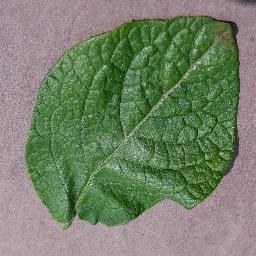
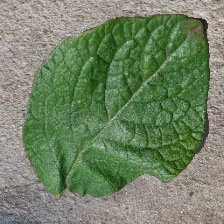
Update all

Changed region(s): [[0.0, 0.0, 1.0, 1.0]]

diff --git a/main.py b/main.py
@@ -45,7 +45,9 @@ class MainWindow:
                            self.uic.prob_late,
                            self.uic.prob_healthy]
         
-        self.img_captured = 0 # image to predict
+        self.img_captured = 0 # image to predict 
+        self.origin_img = 0 # origin image
+
         self.disease = {'name': 0, 'prob': 0}
         self.time = time.time()
         # create a timer
@@ -60,23 +62,32 @@ class MainWindow:
             self.timer.timeout.connect(self.viewCam)
         else:
             self.timer.timeout.connect(self.viewData)
+
         # set control_bt callback clicked  function
         self.uic.control_bt.clicked.connect(self.controlTimer)
+        # set reset callback clicked function
+        self.uic.Reset.clicked.connect(self.Reset)
 
-    
+    #Use image from firebase
     def viewData(self):
         user = self.database.child('Data').get().val()
         
         if (user['Image'] == 'sent'):
-            self.img_captured = self.firebase_receiver.getData()
+            self.img_captured, self.origin_img = self.firebase_receiver.getData()
             image = self.img_captured.copy()
-            image = cv2.cvtColor(np.array(image), cv2.COLOR_BGR2RGB)
+            image = np.array(image)
+            self.origin_img = np.array(self.origin_img)
+
+            # image = cv2.cvtColor(np.array(image), cv2.COLOR_BGR2RGB)
             self.Predict()
 
             height, width, channel = image.shape 
             step = channel * width
             qImg = QImage(image.data, width, height, step, QImage.Format_RGB888)
-            self.uic.label_10.setPixmap(QPixmap.fromImage(qImg))
+            self.uic.label_11.setPixmap(QPixmap.fromImage(qImg))
+
+            qImg2 = QImage(self.origin_img.data, width, height, step, QImage.Format_RGB888)
+            self.uic.label_10.setPixmap(QPixmap.fromImage(qImg2))
 
             for d in self.disease_label_uic:
                 d.setText('  ')
@@ -86,17 +97,13 @@ class MainWindow:
             self.disease_label_uic[self.disease['name']].setPixmap(QPixmap.fromImage(qImg))
             self.prob_label[self.disease['name']].setText('{}'.format(self.disease['prob']))
 
+    #Use image from webcam
     def viewCam(self):
-        # read image in BGR format
         ret, image = self.cap.read()
-        # convert image to RGB format
         image = cv2.cvtColor(image, cv2.COLOR_BGR2RGB)
-        # get image infos
         height, width, channel = image.shape
         step = channel * width
-        # create QImage from image
         qImg = QImage(image.data, width, height, step, QImage.Format_RGB888)
-        # show image in img_label
         if time.time() - self.time >= MIN_DURATION:
             self.img_captured = Image.fromarray(image.copy())
             self.uic.label_11.setPixmap(QPixmap.fromImage(qImg)) #set image for label 11
@@ -113,6 +120,7 @@ class MainWindow:
 
         self.uic.label_10.setPixmap(QPixmap.fromImage(qImg))
 
+    # Predict disease
     def Predict(self):
         self.img_captured = data_transforms(self.img_captured)
         self.img_captured = self.img_captured.unsqueeze(0).to(device)
@@ -124,33 +132,33 @@ class MainWindow:
         self.disease['prob'] = prob.item()
         print('Predicted: ', status[preds.item()])
 
-    def Grabcut(self):
-        pass 
-
+    # Clear all image on UI
     def Reset(self):
-        pass 
+        for d in self.disease_label_uic:
+                d.setText('  ')
+        for p in self.prob_label:
+            p.setText('  ')
+        self.uic.label_10.setText('  ')
+        self.uic.label_11.setText('  ')
+
+        self.timer.stop()
+        self.uic.control_bt.setText("Start")
+        if self.use_webcam:
+                self.cap.release()
         
-    # start/stop timer
+    # Start/stop timer
     def controlTimer(self):
         self.time = time.time()
-        # if timer is stopped
         if not self.timer.isActive():
             if self.use_webcam:
-                # create video capture
                 self.cap = cv2.VideoCapture(0)
-            # start timer
             self.timer.start(20)
-            # update control_bt text
             self.uic.control_bt.setText("Stop")
             
-        # if timer is started
         else:
-            # stop timer
             self.timer.stop()
             if self.use_webcam:
-                # release video capture
                 self.cap.release()
-            # update control_bt text
             self.uic.control_bt.setText("Start")
 
     def show(self):

diff --git a/firebase_send.py b/firebase_send.py
@@ -3,6 +3,23 @@ import argparse
 import pyrebase
 import os
 import cv2 
+import numpy as np 
+import random
+
+def cut_img(img2):
+    mask =	np.zeros(img2.shape[:2],np.uint8) 
+    bgdModel =  np.zeros((1,65),np.float64)
+    fgdModel =  np.zeros((1,65),np.float64)
+    rect =	(10,10,200,200)
+    cv2.grabCut(img2,mask,rect,bgdModel,fgdModel,5,cv2.GC_INIT_WITH_RECT) 
+    mask2  =  np.where((mask==2)|(mask==0),0,1).astype('float32')
+    img2  =	img2*mask2[:,:,np.newaxis]
+    
+    back_ground = cv2.imread('Test_img/back_ground.JPG')
+    back_ground = back_ground - back_ground*mask2[:,:,np.newaxis]
+
+    img2 = img2 + back_ground/1.1
+    return img2
 
 parser = argparse.ArgumentParser()
 parser.add_argument('--img_path', type=str, nargs='?', default='early/1.JPG')
@@ -22,11 +39,22 @@ firebase_storage = pyrebase.initialize_app(config)
 storage = firebase_storage.storage()
 database = firebase_storage.database()
 
+# back = cv2.imread('back_ground.JPG')
+# back = cv2.resize(back, (224,224))
+# cv2.imwrite('back_ground.JPG', back)
+
 img_path = 'Test_img/' + parser.parse_args().img_path
+origin_path = 'Test_img/origin_leaf.JPG'
 img = cv2.imread(img_path)
 img = cv2.resize(img, (224,224))
-cv2.imwrite(img_path, img)
+origin = img.copy()
 
-storage.child("leaf.png").put(img_path)
+img = cut_img(img)
+
+cv2.imwrite('Test_img/leaf.JPG', img)
+cv2.imwrite(origin_path, origin)
+
+storage.child("leaf.JPG").put('Test_img/leaf.JPG')
+storage.child("origin_leaf.JPG").put(origin_path)
 
 database.child('Data').update({'Image': 'sent'})

diff --git a/Potato.py b/Potato.py
@@ -122,6 +122,10 @@ class Ui_MainWindow(object):
         self.control_bt.setGeometry(QtCore.QRect(20, 170, 89, 25))
         self.control_bt.setStyleSheet("background-color: rgb(204, 0, 0);")
         self.control_bt.setObjectName("control_bt")
+        self.Reset = QtWidgets.QPushButton(self.centralwidget)
+        self.Reset.setGeometry(QtCore.QRect(20, 230, 89, 25))
+        self.Reset.setStyleSheet("background-color: rgb(78, 154, 6);")
+        self.Reset.setObjectName("Reset")
         MainWindow.setCentralWidget(self.centralwidget)
         self.menubar = QtWidgets.QMenuBar(MainWindow)
         self.menubar.setGeometry(QtCore.QRect(0, 0, 800, 22))
@@ -142,11 +146,12 @@ class Ui_MainWindow(object):
         self.label_3.setText(_translate("MainWindow", "  ẢNH XỬ LÝ"))
         self.label_4.setText(_translate("MainWindow", " Úa sớm"))
         self.label_5.setText(_translate("MainWindow", " Héo muộn"))
-        self.label_6.setText(_translate("MainWindow", "Khỏe mạnh"))
+        self.label_6.setText(_translate("MainWindow", " Khỏe mạnh"))
         self.prob_healthy.setText(_translate("MainWindow", "Xác suất"))
         self.prob_late.setText(_translate("MainWindow", "Xác suất"))
         self.prob_early.setText(_translate("MainWindow", "Xác suất"))
         self.control_bt.setText(_translate("MainWindow", "Start"))
+        self.Reset.setText(_translate("MainWindow", "Reset"))
 
 
 if __name__ == "__main__":

diff --git a/utils/get_firebase_data.py b/utils/get_firebase_data.py
@@ -7,18 +7,27 @@ class firebase_receiver:
         self.storage = storage
         self.database = database
 
-        self.storage_child = 'leaf.png'
-        self.storage_download = 'leaf.png'
+        self.storage_child = 'leaf.JPG'
+        self.storage_download = 'Test_img/leaf.JPG'
+
+        self.origin_child = 'origin_leaf.JPG'
+        self.origin_download = 'Test_img/origin_leaf.JPG'
 
         self.data_child = 'Data'
         self.update_2_child = 'Image'
 
         self.image = 0
-
+        self.origin = 0
+        
+    #Get image from firebase and then send 'received' to confirm
     def getData(self):
         if self.storage != None:
             self.storage.child(self.storage_child).download(self.storage_download)
             self.image = Image.open(self.storage_download)
+
+            self.storage.child(self.origin_child).download(self.origin_download)
+            self.origin = Image.open(self.origin_download)
+            
         if self.database != None:
             self.database.child(self.data_child).update({self.update_2_child: 'received'})
-        return self.image
+        return self.image, self.origin

diff --git a/firebase_receive.py b/firebase_receive.py
@@ -1,6 +1,7 @@
 import pyrebase
 import os
 
+
 config = {
   'apiKey': "AIzaSyApriNxJBruBDUVc5ge3y4bX3jZCR-ZThU",
   'authDomain': "potato-diseases.firebaseapp.com",

diff --git a/README.md b/README.md
@@ -1,1 +1,66 @@
 # Potato-Diseases
+
+## Introduction
+**This project aims at building a potato leaf disease classification to support farming robot**
+
+Many plant diseases have distinct visual symptoms which can be used to identify and classify them correctly. This project builds a potato leaf disease classification system using deep learning. 
+The project is decomposed in four modes: 'data collection', 'training', 'UI design' and 'data communication'.
+
+## Prepare data
+
+To create data for training, I gathered potato leaf from two different sources: [Kaggle](https://www.kaggle.com/datasets/vipoooool/new-plant-diseases-dataset) and Vietnamese Farms.
+For this project, I focused on 3 classes of potato leaf disease: Healthy (khỏe mạnh), early blight (úa sớm), late blight (héo muộn).
+
+To prepare the data, I recommend to create the following structure as the image bellow:
+
+<img src='Img/structure.png'>
+
+## Training
+
+The model used for training is a pretrained VGG16. The classifier layer was modified with three classes and I freezed all layers before it. If you want to update all of them, just set 'requires_grad_(True)' in line 9 of 'network.py'.
+As input to the network, images was resize to (224,224). To classify diseases, I used Softmax activation with total probability is 1.
+
+<img src='Img/vgg16.png'>
+
+Model is compiled with Adam optimizer and the loss function used is the Cross Entropy loss.
+
+Training on Google Colab. Best weights are automatically saved during training as 'VGG16_custom.pth'
+
+At the end, the accuracy is 98% overall. Model can be downloaded from [here](https://drive.google.com/file/d/1RrBEwFXkCrPUy14wAMCJcaWnyTgjLxCE/view?usp=sharing)
+
+## UI Design
+
+I used Qt5 Designer to design UI. There are 2 buttons and 5 labels to show image, which was captured by robot.
+
+<img src='Img/UI.png'>
+
+'Start' button: Start system
+'Reset' button: Clear all image and number on UI screen
+'ẢNH CHỤP ĐƯỢC' label: Show original image from robot
+'ẢNH XỬ LÝ' label: Show image after using grabcut method to segment leaf from background
+
+Predicted disease leaf image will show on small label bellow with its probability.
+Examples:
+
+<img src='Img/example1.png'>
+
+## Data communication
+
+I used Firebase of Google to put and get image between robot and server.
+
+<img src='Img/firebase.png'>
+
+## How to use ?
+
+'''
+    - Clone this repository
+    - pip install -r requirements.txt
+    - python main.py OPTIONS
+
+    * Modes of the program (Possible OPTIONS):
+
+    --use_webcam: default=False, type=bool
+    --min_duration: default=2, type=int
+'''
+
+More options in 'utils/config.py'
